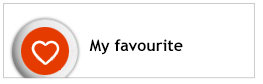
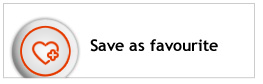
Doubling up chat messages

Changed region(s): [[0.0608, 0.3095, 0.2738, 0.9286], [0.3346, 0.4524, 0.8517, 0.6429]]

diff --git a/http/template/user/home/supportus.html b/http/template/user/home/supportus.html
@@ -27,7 +27,7 @@ http://www.ebay.co.uk/egw/ebay-for-charity/charity-profile/Freegle/74430
                 </div>
                 <div class="row">
                     <div class="col-xs-12 topspace">
-                        <p class="text-center">Please go to eBay and then click their <b>My favourite</b> button to make us your favourite charity - that counts as your vote:</p>
+                        <p class="text-center">Please go to eBay and then click their <b>Save as favourite</b> button to make us your favourite charity - that counts as your vote:</p>
                         <p>
                             <a href="http://www.ebay.co.uk/egw/ebay-for-charity/charity-profile/Freegle/74430" target="_blank" data-realurl="true">
                                 <span class="btn btn-success btn-block btn-lg">Go to eBay >></span>
@@ -36,7 +36,7 @@ http://www.ebay.co.uk/egw/ebay-for-charity/charity-profile/Freegle/74430
                         <p class="text-center">Look for this button:</p>
                         <p>
                             <a href="http://www.ebay.co.uk/egw/ebay-for-charity/charity-profile/Freegle/74430" target="_blank" data-realurl="true">
-                                <img src="/images/ebay.png" />
+                                <img src="/images/ebay.png?a=1" />
                             </a>
                         </p>
                     </div>
